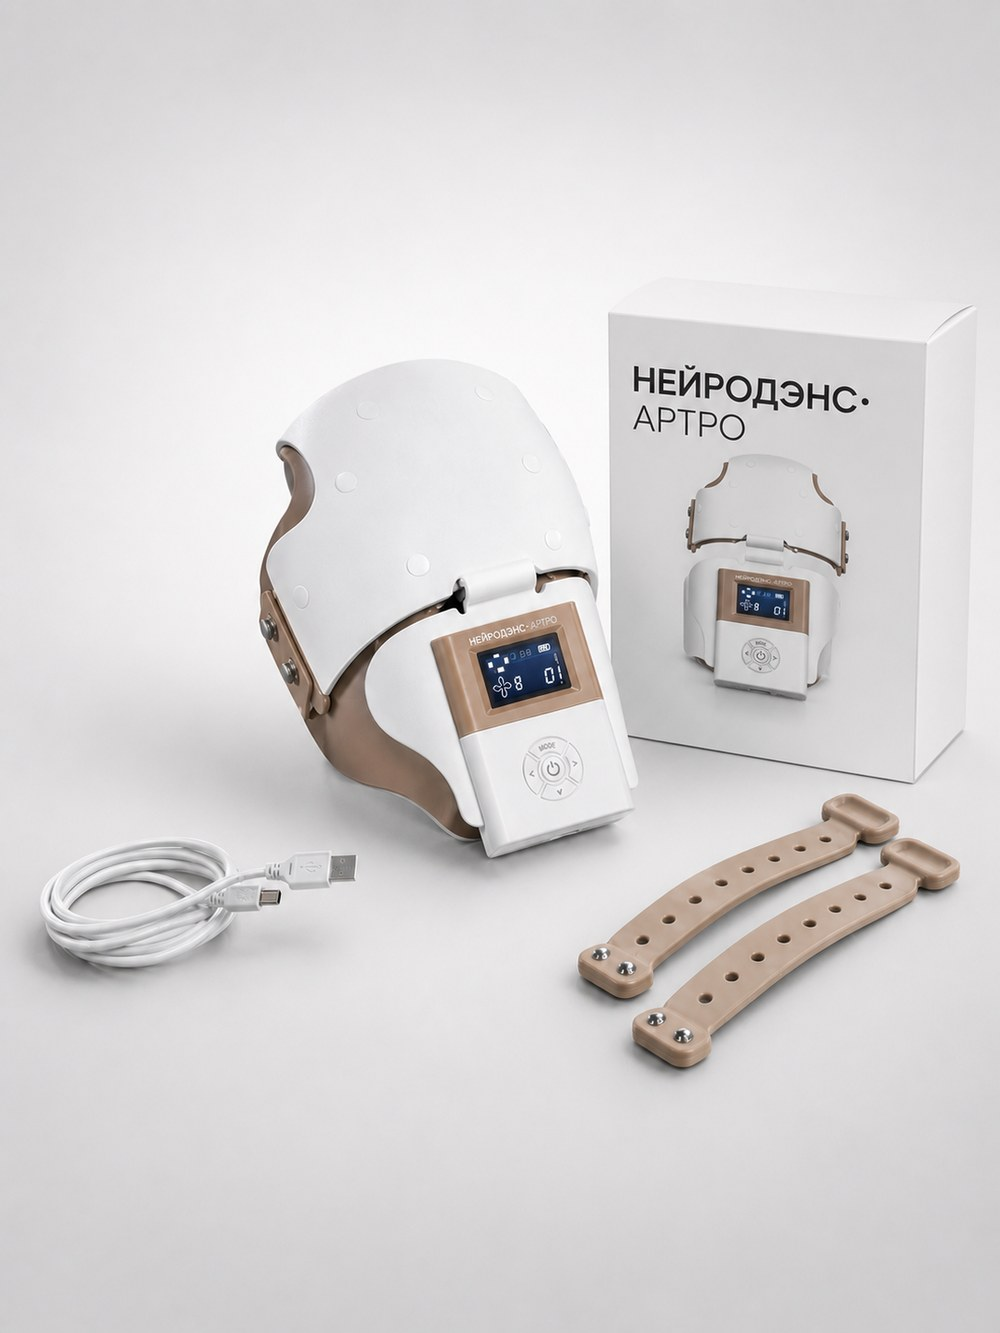
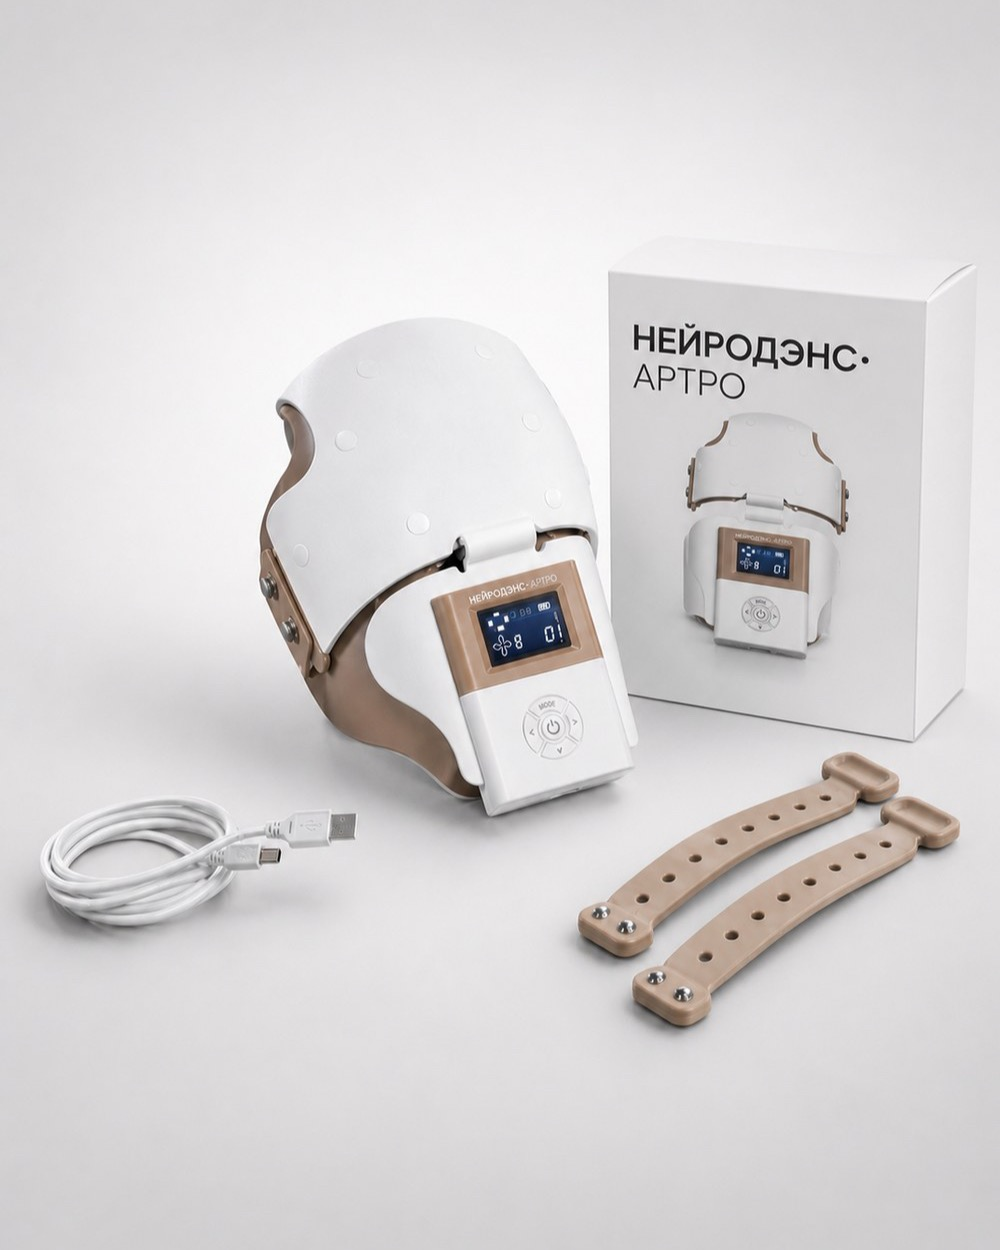
Выровнять пропорции всех фото до 4:5
Обрезка по центру 7 изображений (0.750 → 0.800). CSS галереи: 1:1 → 4:5 + object-fit:cover.

diff --git a/index.html b/index.html
@@ -219,8 +219,8 @@ section[id],a[id]{scroll-margin-top:88px}
 .detail .badge-inline{display:inline-block;background:#e8f2fd;color:var(--blue);font-size:.85rem;font-weight:700;padding:6px 14px;border-radius:999px;margin-bottom:14px}
 .detail h2{margin:0 0 .4em}
 .detail .lead{font-size:1.08rem;color:var(--muted)}
-.gallery .main{aspect-ratio:1/1;background:linear-gradient(160deg,#f4f9ff,#eaf6f5);border:1px solid var(--line);border-radius:var(--radius);overflow:hidden;display:flex;align-items:center;justify-content:center;box-shadow:var(--shadow)}
-.gallery .main img{width:100%;height:100%;object-fit:contain}
+.gallery .main{aspect-ratio:4/5;background:linear-gradient(160deg,#f4f9ff,#eaf6f5);border:1px solid var(--line);border-radius:var(--radius);overflow:hidden;display:flex;align-items:center;justify-content:center;box-shadow:var(--shadow)}
+.gallery .main img{width:100%;height:100%;object-fit:cover}
 .gallery .thumbs{display:flex;flex-wrap:wrap;gap:10px;margin-top:12px}
 .gallery .thumbs button{flex:1 1 0;min-width:70px;aspect-ratio:4/3;border:2px solid var(--line);border-radius:12px;overflow:hidden;background:#f4f9ff;cursor:pointer;padding:0;transition:border-color .15s ease}
 .gallery .thumbs button.active{border-color:var(--blue)}
